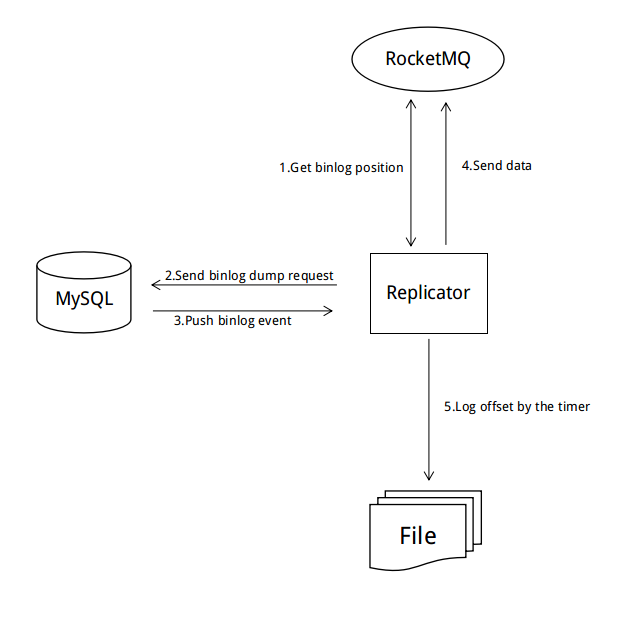
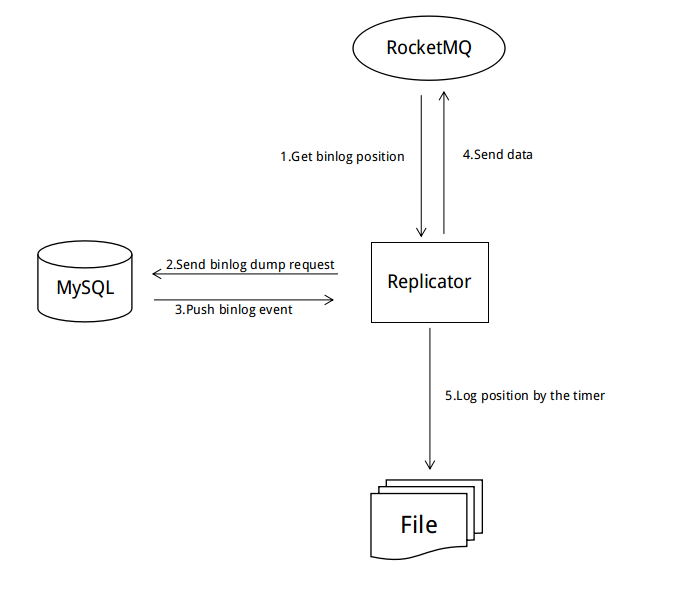
update to 1.0.0 verison

diff --git a/rocketmq-mysql/src/main/java/org/apache/rocketmq/mysql/binlog/EventProcessor.java b/rocketmq-mysql/src/main/java/org/apache/rocketmq/mysql/binlog/EventProcessor.java
@@ -37,6 +37,7 @@ import java.util.List;
 import java.util.Map;
 import java.util.concurrent.BlockingQueue;
 import java.util.concurrent.LinkedBlockingQueue;
+import java.util.concurrent.TimeUnit;
 import java.util.regex.Pattern;
 import javax.sql.DataSource;
 import org.apache.rocketmq.mysql.Config;
@@ -111,7 +112,11 @@ public class EventProcessor {
         while (true) {
 
             try {
-                BinlogEventV4 event = queue.take();
+                BinlogEventV4 event = queue.poll(100, TimeUnit.MILLISECONDS);
+                if (event == null) {
+                    checkConnection();
+                    continue;
+                }
 
                 switch (event.getHeader().getEventType()) {
                     case MySQLConstants.TABLE_MAP_EVENT:
@@ -158,8 +163,20 @@ public class EventProcessor {
         }
     }
 
-    private void processTableMapEvent(BinlogEventV4 event) {
+    private void checkConnection() throws Exception {
 
+        if (!openReplicator.isRunning()) {
+            BinlogPosition binlogPosition = replicator.getNextBinlogPosition();
+            if (binlogPosition != null) {
+                openReplicator.setBinlogFileName(binlogPosition.getBinlogFilename());
+                openReplicator.setBinlogPosition(binlogPosition.getPosition());
+            }
+
+            openReplicator.start();
+        }
+    }
+
+    private void processTableMapEvent(BinlogEventV4 event) {
         TableMapEvent tableMapEvent = (TableMapEvent) event;
         String dbName = tableMapEvent.getDatabaseName().toString();
         String tableName = tableMapEvent.getTableName().toString();
@@ -171,7 +188,6 @@ public class EventProcessor {
     }
 
     private void processWriteEvent(BinlogEventV4 event) {
-
         WriteRowsEvent writeRowsEvent = (WriteRowsEvent) event;
         Long tableId = writeRowsEvent.getTableId();
         List<Row> list = writeRowsEvent.getRows();
@@ -182,7 +198,6 @@ public class EventProcessor {
     }
 
     private void processWriteEventV2(BinlogEventV4 event) {
-
         WriteRowsEventV2 writeRowsEventV2 = (WriteRowsEventV2) event;
         Long tableId = writeRowsEventV2.getTableId();
         List<Row> list = writeRowsEventV2.getRows();
@@ -194,7 +209,6 @@ public class EventProcessor {
     }
 
     private void processUpdateEvent(BinlogEventV4 event) {
-
         UpdateRowsEvent updateRowsEvent = (UpdateRowsEvent) event;
         Long tableId = updateRowsEvent.getTableId();
         List<Pair<Row>> list = updateRowsEvent.getRows();
@@ -205,7 +219,6 @@ public class EventProcessor {
     }
 
     private void processUpdateEventV2(BinlogEventV4 event) {
-
         UpdateRowsEventV2 updateRowsEventV2 = (UpdateRowsEventV2) event;
         Long tableId = updateRowsEventV2.getTableId();
         List<Pair<Row>> list = updateRowsEventV2.getRows();
@@ -216,7 +229,6 @@ public class EventProcessor {
     }
 
     private void processDeleteEvent(BinlogEventV4 event) {
-
         DeleteRowsEvent deleteRowsEvent = (DeleteRowsEvent) event;
         Long tableId = deleteRowsEvent.getTableId();
         List<Row> list = deleteRowsEvent.getRows();
@@ -228,7 +240,6 @@ public class EventProcessor {
     }
 
     private void processDeleteEventV2(BinlogEventV4 event) {
-
         DeleteRowsEventV2 deleteRowsEventV2 = (DeleteRowsEventV2) event;
         Long tableId = deleteRowsEventV2.getTableId();
         List<Row> list = deleteRowsEventV2.getRows();
@@ -243,7 +254,6 @@ public class EventProcessor {
         Pattern.compile("^(CREATE|ALTER)\\s+TABLE", Pattern.CASE_INSENSITIVE);
 
     private void processQueryEvent(BinlogEventV4 event) {
-
         QueryEvent queryEvent = (QueryEvent) event;
         String sql = queryEvent.getSql().toString();
 
@@ -253,7 +263,6 @@ public class EventProcessor {
     }
 
     private void processXidEvent(BinlogEventV4 event) {
-
         XidEvent xidEvent = (XidEvent) event;
         String binlogFilename = xidEvent.getBinlogFilename();
         Long position = xidEvent.getHeader().getNextPosition();
@@ -293,7 +302,7 @@ public class EventProcessor {
     }
 
     private void initDataSource() throws Exception {
-        Map<String,String> map = new HashMap<>();
+        Map<String, String> map = new HashMap<>();
         map.put("driverClassName", "com.mysql.jdbc.Driver");
         map.put("url", "jdbc:mysql://" + config.mysqlAddr + ":" + config.mysqlPort + "?useSSL=true&verifyServerCertificate=false");
         map.put("username", config.mysqlUsername);

diff --git a/rocketmq-mysql/src/main/java/org/apache/rocketmq/mysql/Replicator.java b/rocketmq-mysql/src/main/java/org/apache/rocketmq/mysql/Replicator.java
@@ -19,7 +19,7 @@ package org.apache.rocketmq.mysql;
 
 import org.apache.rocketmq.mysql.binlog.EventProcessor;
 import org.apache.rocketmq.mysql.binlog.Transaction;
-import org.apache.rocketmq.mysql.offset.OffsetLogThread;
+import org.apache.rocketmq.mysql.position.BinlogPositionLogThread;
 import org.apache.rocketmq.mysql.productor.RocketMQProducer;
 import org.apache.rocketmq.mysql.position.BinlogPosition;
 import org.slf4j.Logger;
@@ -29,7 +29,7 @@ public class Replicator {
 
     private static final Logger LOGGER = LoggerFactory.getLogger(Replicator.class);
 
-    private static final Logger OFFSET_LOGGER = LoggerFactory.getLogger("OffsetLogger");
+    private static final Logger POSITION_LOGGER = LoggerFactory.getLogger("PositionLogger");
 
     private Config config;
 
@@ -57,8 +57,8 @@ public class Replicator {
             rocketMQProducer = new RocketMQProducer(config);
             rocketMQProducer.start();
 
-            OffsetLogThread offsetLogThread = new OffsetLogThread(this);
-            offsetLogThread.start();
+            BinlogPositionLogThread binlogPositionLogThread = new BinlogPositionLogThread(this);
+            binlogPositionLogThread.start();
 
             eventProcessor = new EventProcessor(this);
             eventProcessor.start();
@@ -95,7 +95,7 @@ public class Replicator {
         }
     }
 
-    public void logOffset() {
+    public void logPosition() {
 
         String binlogFilename = null;
         long xid = 0L;
@@ -112,7 +112,7 @@ public class Replicator {
         }
 
         if (binlogFilename != null) {
-            OFFSET_LOGGER.info("XID: {},   BINLOG_FILE: {},   NEXT_POSITION: {},   NEXT_OFFSET: {}",
+            POSITION_LOGGER.info("XID: {},   BINLOG_FILE: {},   NEXT_POSITION: {},   NEXT_OFFSET: {}",
                 xid, binlogFilename, nextPosition, nextOffset);
         }
 

diff --git a/rocketmq-mysql/src/main/java/org/apache/rocketmq/mysql/position/BinlogPositionManager.java b/rocketmq-mysql/src/main/java/org/apache/rocketmq/mysql/position/BinlogPositionManager.java
@@ -46,21 +46,33 @@ public class BinlogPositionManager {
 
     public void initBeginPosition() throws Exception {
 
-        if (config.startType == null || config.startType.equals("NEW_EVENT")) {
+        if (config.startType == null || config.startType.equals("DEFAULT")) {
+            initPositionDefault();
 
+        } else if (config.startType.equals("NEW_EVENT")) {
             initPositionFromBinlogTail();
+
         } else if (config.startType.equals("LAST_PROCESSED")) {
-
             initPositionFromMqTail();
-        } else if (config.startType.equals("SPECIFIED")) {
 
+        } else if (config.startType.equals("SPECIFIED")) {
             binlogFilename = config.binlogFilename;
             nextPosition = config.nextPosition;
+
         }
 
         if (binlogFilename == null || nextPosition == null) {
             throw new Exception("binlogFilename | nextPosition is null.");
         }
+    }
+
+    private void initPositionDefault() throws Exception {
+        initPositionFromMqTail();
+
+        if (binlogFilename == null || nextPosition == null) {
+            initPositionFromBinlogTail();
+        }
+
     }
 
     private void initPositionFromMqTail() throws Exception {

diff --git a/rocketmq-mysql/src/main/java/org/apache/rocketmq/mysql/Config.java b/rocketmq-mysql/src/main/java/org/apache/rocketmq/mysql/Config.java
@@ -33,7 +33,7 @@ public class Config {
     public String mqNamesrvAddr;
     public String mqTopic;
 
-    public String startType = "NEW_EVENT";
+    public String startType = "DEFAULT";
     public String binlogFilename;
     public Long nextPosition;
     public Integer maxTransactionRows = 100;

diff --git a/rocketmq-mysql/README.md b/rocketmq-mysql/README.md
@@ -36,7 +36,7 @@ and sends it to RocketMQ in json format. Besides MySQL, other systems can also c
 |mysqlPassword     |false   |           |password of MySQL account|
 |mqNamesrvAddr     |false   |           |RocketMQ name server address (e.g.,127.0.0.1:9876)|
 |mqTopic           |false   |           |RocketMQ topic name|
-|startType         |true    |NEW_EVENT  |The way that the replicator starts processing data,there are three options available:<br>- NEW_EVENT： starts processing data from the tail of binlog<br>- LAST_PROCESSED: starts processing data from the last processed event<br>- SPECIFIED:starts processing data from the position that user specified,if you choose this option,the binlogFilename and nextPosition must not be null|
+|startType         |true    |DEFAULT    |The way that the replicator starts processing data,there are four options available:<br>- DEFAULT: try to start processing data in the "LAST_PROCESSED" way,if failed, then in the "NEW_EVENT" way<br>- LAST_PROCESSED: starts processing data from the last processed event<br>- NEW_EVENT: starts processing data from the tail of binlog<br>- SPECIFIED: starts processing data from the position that user specified,if you choose this option,the binlogFilename and nextPosition must not be null|
 |binlogFilename    |true    |           |If "startType" is "SPECIFIED",the replicator will begin to replicate from this binlog file|
 |nextPosition      |true    |           |If "startType" is "SPECIFIED",the replicator will begin to replicate from this position|
 |maxTransactionRows|true    |100        |max rows of the transaction pushed to RocketMQ|
